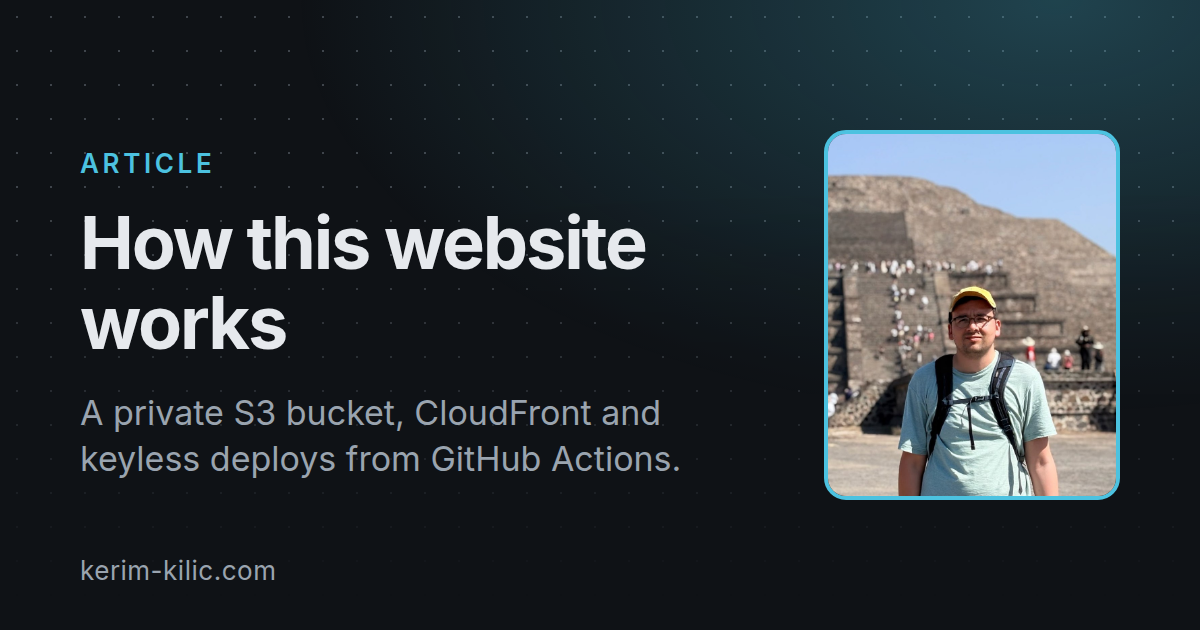
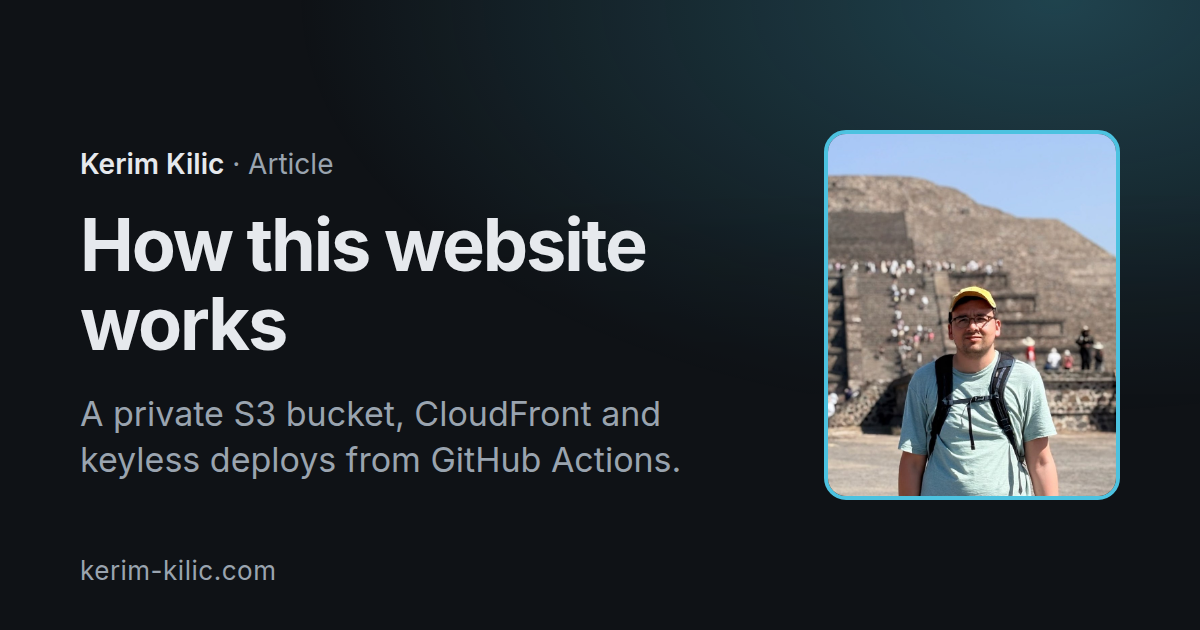
Bring the social cards in line with the site's new look
- The uppercase label becomes a byline like the one on the home page:
  normal case and muted, with the part before " · " in bold.
- The dot grid is gone; the faint glow stays.
- Subtitles wrap with text-wrap: pretty, so no word is left alone on a
  line.
- The default card drops "Cloud Engineer & Architect" and keeps its
  original text; the article card's byline reads "Kerim Kilic · Article".
- The README's render example uses the new byline.

diff --git a/tools/og/card.html b/tools/og/card.html
@@ -12,23 +12,22 @@
   body { position: relative; display: flex; align-items: center; gap: 56px; padding: 0 80px; background: var(--bg); color: var(--text); font-family: Inter, system-ui, sans-serif; }
   body::before {
     content: ""; position: absolute; inset: 0;
-    background:
-      radial-gradient(760px 420px at 88% 0%, rgba(76, 194, 224, .28), transparent),
-      radial-gradient(rgba(154, 164, 175, .35) 1.5px, transparent 1.5px) 0 0 / 34px 34px;
+    background: radial-gradient(760px 420px at 88% 0%, rgba(76, 194, 224, .28), transparent);
     -webkit-mask-image: linear-gradient(to bottom, #000 30%, transparent 95%);
     mask-image: linear-gradient(to bottom, #000 30%, transparent 95%);
   }
   .text { position: relative; flex: 1; min-width: 0; }
-  .eyebrow { margin: 0 0 24px; color: var(--accent); font-size: 26px; font-weight: 600; letter-spacing: .14em; text-transform: uppercase; }
+  .byline { margin: 0 0 24px; color: var(--muted); font-size: 28px; }
+  .byline strong { color: var(--text); font-weight: 600; }
   h1 { margin: 0 0 28px; font-weight: 700; letter-spacing: -.03em; line-height: 1.1; }
-  .sub { margin: 0; color: var(--muted); font-size: 34px; line-height: 1.35; }
+  .sub { margin: 0; color: var(--muted); font-size: 34px; line-height: 1.35; text-wrap: pretty; }
   .photo { position: relative; flex: none; width: 296px; height: 370px; border: 4px solid var(--accent); border-radius: 22px; object-fit: cover; }
   .foot { position: absolute; left: 80px; bottom: 44px; color: var(--muted); font-size: 26px; letter-spacing: .02em; }
 </style>
 </head>
 <body>
   <div class="text">
-    <p class="eyebrow" id="eyebrow"></p>
+    <p class="byline" id="byline"></p>
     <h1 id="title"></h1>
     <p class="sub" id="sub"></p>
   </div>
@@ -38,7 +37,15 @@
     const q = new URLSearchParams(location.search);
     const fill = (id, value) => { const el = document.getElementById(id); value ? (el.textContent = value) : el.remove(); };
     const title = q.get('title') || 'Kerim Kilic';
-    fill('eyebrow', q.get('eyebrow'));
+    // Same shape as the site's byline: the part before " · " is bold.
+    const byline = q.get('eyebrow');
+    fill('byline', byline);
+    if (byline && byline.includes(' · ')) {
+      const [first, ...rest] = byline.split(' · ');
+      const el = document.getElementById('byline');
+      el.textContent = ' · ' + rest.join(' · ');
+      el.prepend(Object.assign(document.createElement('strong'), { textContent: first }));
+    }
     fill('title', title);
     fill('sub', q.get('subtitle'));
     document.getElementById('title').style.fontSize = title.length > 34 ? '60px' : title.length > 20 ? '72px' : '92px';

diff --git a/README.md b/README.md
@@ -47,10 +47,11 @@ Pull requests and Dependabot's branches only build. Hugo settings for dev live i
 
 Links shared on LinkedIn and elsewhere use a 1200x630 card. `static/og/default.png` is the site-wide default; an
 article can set its own with `image: "og/<name>.png"` in its front matter. Cards are rendered from
-`tools/og/card.html` with headless Chrome:
+`tools/og/card.html` with headless Chrome. The last argument is the byline; the part before " · " is set in bold, as on
+the site:
 
 ```bash
-tools/og/render.sh static/og/my-article.png "Article title" "One-line summary" "Article"
+tools/og/render.sh static/og/my-article.png "Article title" "One-line summary" "Kerim Kilic · Article"
 ```
 
 ## Favicon
